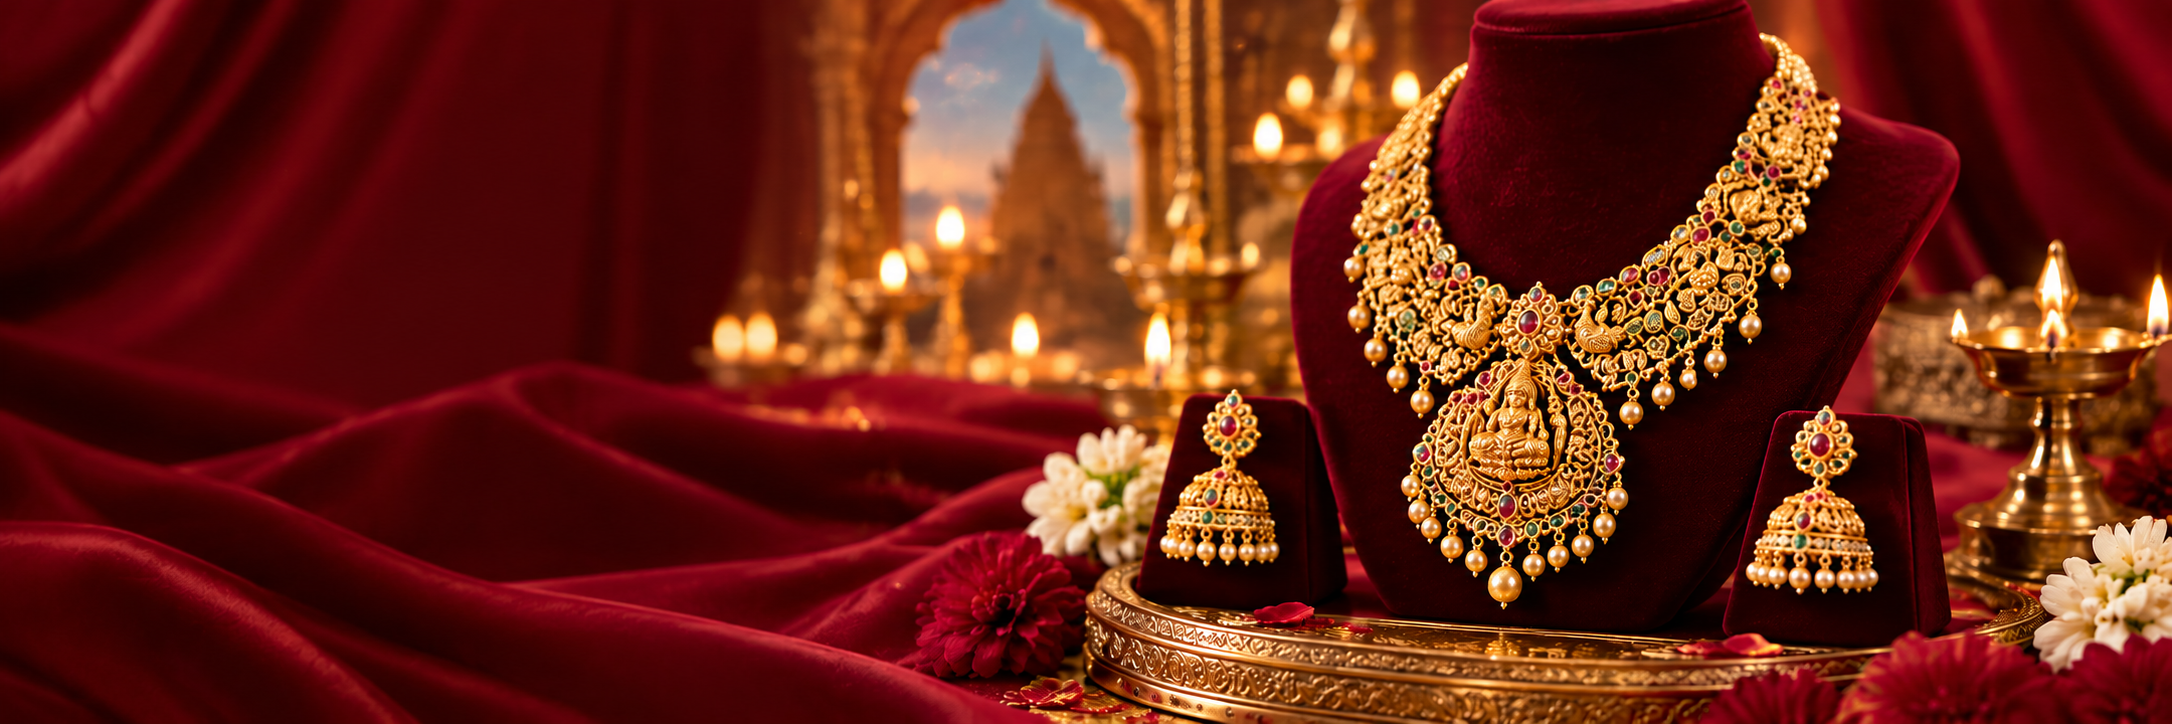
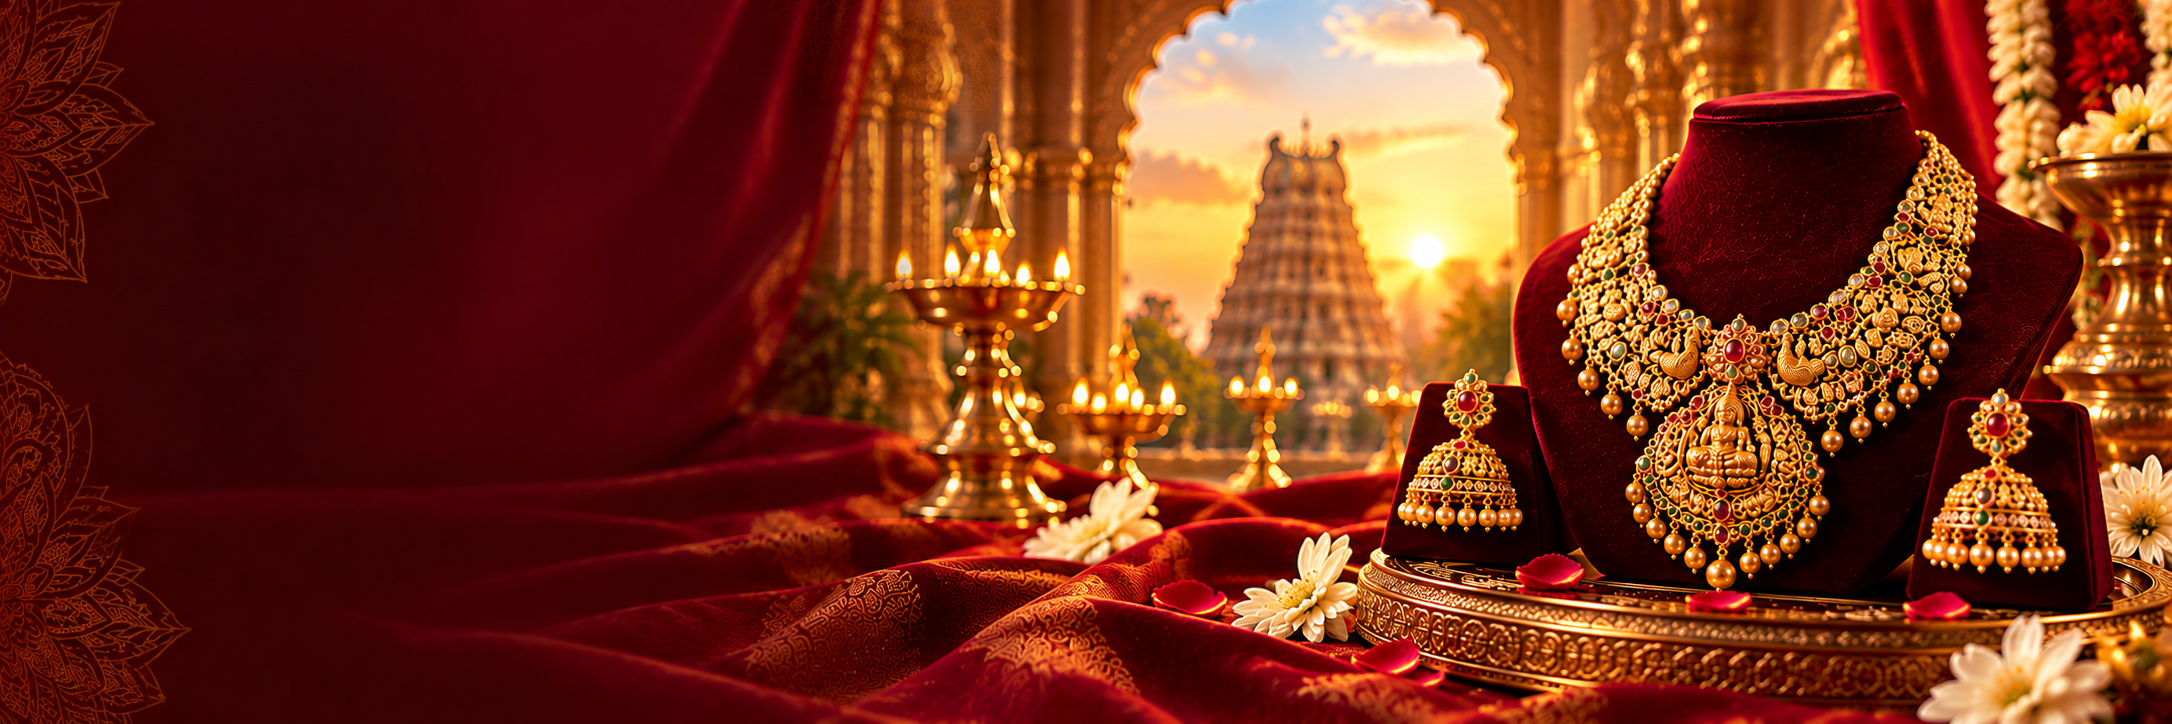
fix it

diff --git a/Frontend/src/components/CommonComponents/PageHeader.jsx b/Frontend/src/components/CommonComponents/PageHeader.jsx
@@ -2,10 +2,6 @@ import { Link } from "react-router-dom";
 
 const PageHeader = ({
   title,
-  background = "/images/pageheader.png",
-  image,
-  imageSize = "cover",
-  imagePosition = "center",
   eyebrow,
   subtitle,
   description,
@@ -16,14 +12,14 @@ const PageHeader = ({
   action,
   children,
 }) => {
-  if (image) {
+  if (breadcrumb || eyebrow || subtitle || description || action || children) {
     return (
       <section
         className={`relative overflow-hidden bg-cover bg-center text-white ${className}`}
         style={{
-          backgroundImage: `linear-gradient(90deg, rgba(48, 5, 7, .96), rgba(82, 9, 11, .78), rgba(56, 7, 8, .38)), url("${image}")`,
-          backgroundSize: imageSize.includes(",") ? imageSize : `cover, ${imageSize}`,
-          backgroundPosition: imagePosition.includes(",") ? imagePosition : `center, ${imagePosition}`,
+          backgroundImage: 'linear-gradient(90deg, rgba(48, 5, 7, .28), rgba(48, 5, 7, .08) 55%, transparent), url("/page-header-banner.png")',
+          backgroundSize: "cover",
+          backgroundPosition: "center",
           height: "300px",
           minHeight: "300px",
           maxHeight: "300px",
@@ -66,9 +62,9 @@ const PageHeader = ({
     <div
       className="relative flex h-[300px] w-full items-end justify-center overflow-hidden text-white"
       style={{
-        backgroundImage: `url(${background})`,
+        backgroundImage: 'url("/page-header-banner.png")',
         backgroundSize: "cover",
-        backgroundPosition: "bottom",
+        backgroundPosition: "center",
         backgroundRepeat: "no-repeat",
       }}
     >

diff --git a/Frontend/src/pages/About.tsx b/Frontend/src/pages/About.tsx
@@ -37,24 +37,9 @@ function About() {
         title="About Us"
         subtitle="A Legacy of Trust and Timeless Beauty"
         description="At Sri Vengateshwara, we bring beautifully crafted jewellery to every home. With decades of experience, we are committed to purity, quality and exceptional craftsmanship inspired by our rich Indian heritage."
-        image={image(10)}
-        imageSize="cover, 58% auto"
-        imagePosition="center, right center"
         className="flex h-[300px] items-center"
         contentClassName="!py-1"
         titleClassName="text-3xl sm:text-4xl lg:text-5xl"
-        action={(
-          <div className="grid max-w-[450px] grid-cols-3 divide-x divide-[#f4c35e]/35 border-t border-[#f4c35e]/25 pt-2">
-            {values.slice(0, 3).map(({ icon: Icon, title }) => (
-              <div key={title} className="flex flex-col items-center gap-1 px-2 text-center">
-                <span className="flex h-8 w-8 items-center justify-center rounded-full border border-[#f4c35e] text-[#f4c35e] sm:h-9 sm:w-9">
-                  <Icon className="h-4 w-4 sm:h-5 sm:w-5" aria-hidden="true" />
-                </span>
-                <span className="font-serif text-[10px] font-semibold leading-tight text-white sm:text-xs">{title}</span>
-              </div>
-            ))}
-          </div>
-        )}
       />
 
       <section className="py-10 sm:py-14">

diff --git a/Frontend/src/pages/OffersPage.tsx b/Frontend/src/pages/OffersPage.tsx
@@ -141,7 +141,6 @@ function OffersPage() {
         eyebrow="Special Offers"
         title={<>Golden Deals<br className="hidden sm:block" /> For Precious Moments</>}
         description={<>Exclusive offers on gold, diamond and bridal jewellery.<br className="hidden sm:block" /> Make your celebrations more special with our limited period offers.</>}
-        image={imageAsset(25)}
         className="min-h-[175px] sm:min-h-[200px]"
         titleClassName="text-3xl sm:text-4xl"
         action={(

diff --git a/Frontend/src/pages/ShopPage.tsx b/Frontend/src/pages/ShopPage.tsx
@@ -249,7 +249,6 @@ function ShopPage() {
         eyebrow="HANDCRAFTED FOR EVERY OCCASION"
         breadcrumb="Shop"
         description="Explore timeless gold, diamond, and everyday jewellery, thoughtfully crafted to make every celebration shine."
-        image={imageAsset(25)}
         className="flex h-[300px] items-center"
         contentClassName="py-4"
         titleClassName="text-2xl sm:text-3xl"

diff --git a/Frontend/src/components/CommonComponents/PageHeader.d.ts b/Frontend/src/components/CommonComponents/PageHeader.d.ts
@@ -2,10 +2,6 @@ import type { ReactElement, ReactNode } from 'react';
 
 interface PageHeaderProps {
   title: ReactNode;
-  background?: string;
-  image?: string;
-  imageSize?: string;
-  imagePosition?: string;
   eyebrow?: ReactNode;
   subtitle?: ReactNode;
   description?: ReactNode;
